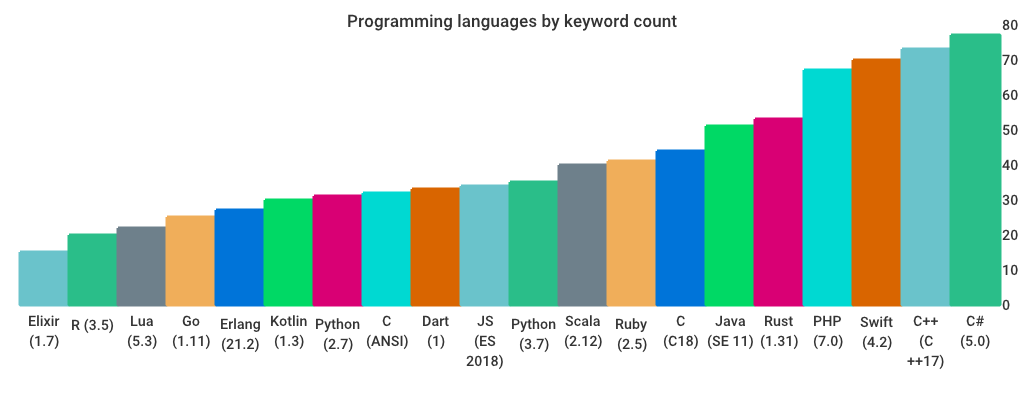
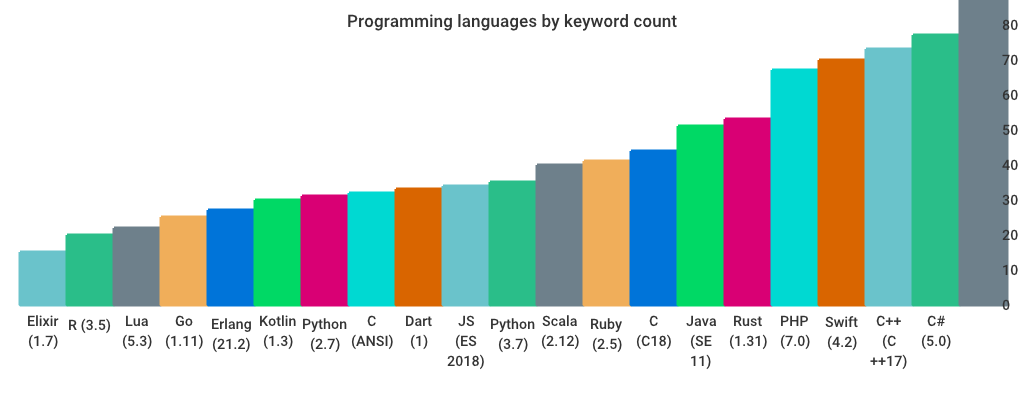
[skip ci] Rebuild README.md and chart.png from chart.yaml update

Changed region(s): [[0.0312, 0.0, 1.0, 0.93], [0.0938, 0.57, 0.125, 0.75]]

diff --git a/README.md b/README.md
@@ -22,6 +22,7 @@ Don't see a language here? Please open a pull request adding it!
 * [Dart (1) (33 keywords)](#dart-1-33-keywords)
 * [Elixir (1.7) (15 keywords)](#elixir-17-15-keywords)
 * [Erlang (21.2) (27 keywords)](#erlang-212-27-keywords)
+* [Fortran (Fortran 2008) (103 keywords)](#fortran-fortran-2008-103-keywords)
 * [Go (1.11) (25 keywords)](#go-111-25-keywords)
 * [JS (ES2018) (34 keywords)](#js-es2018-34-keywords)
 * [Java (SE 11) (51 keywords)](#java-se-11-51-keywords)
@@ -170,6 +171,40 @@ Don't see a language here? Please open a pull request adding it!
 #### Sources:
 
 [http://erlang.org/doc/reference_manual/introduction.html#reserved-words](http://erlang.org/doc/reference_manual/introduction.html#reserved-words)
+### Fortran (Fortran 2008) (103 keywords)
+| | | | |
+|---|---|---|---|
+|  abstract | allocatable | allocate | assign |
+|  associate | asynchronous | backspace | bind |
+|  block | block data | call | case |
+|  class | close | codimension | common |
+|  contains | contiguous | continue | critical |
+|  cycle | data | deallocate | deferred |
+|  dimension | do | do concurrent | elemental |
+|  else | else if | elsewhere | end |
+|  endfile | endif | entry | enum |
+|  enumerator | equivalence | error stop | exit |
+|  extends | external | final | flush |
+|  forall | format | function | generic |
+|  goto | if | implicit | import |
+|  include | inquire | intent | interface |
+|  intrinsic | lock | module | namelist |
+|  non_overridable | nopass | nullify | only |
+|  open | operator | optional | parameter |
+|  pass | pause | pointer | print |
+|  private | procedure | program | protected |
+|  public | pure | read | recursive |
+|  result | return | rewind | rewrite |
+|  save | select | sequence | stop |
+|  submodule | subroutine | sync all | sync images |
+|  sync memory | target | then | unlock |
+|  use | value | volatile | wait |
+|  where | while | write |
+
+
+#### Sources:
+
+[http://fortranwiki.org/fortran/show/Keywords](http://fortranwiki.org/fortran/show/Keywords)
 ### Go (1.11) (25 keywords)
 | | | | |
 |---|---|---|---|
